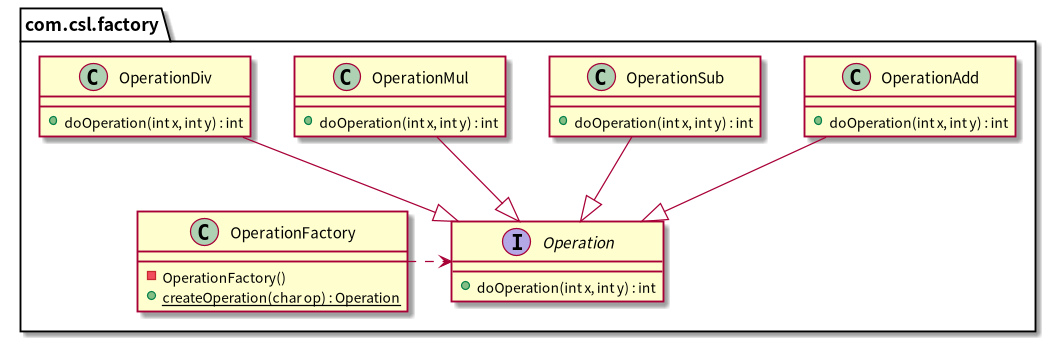
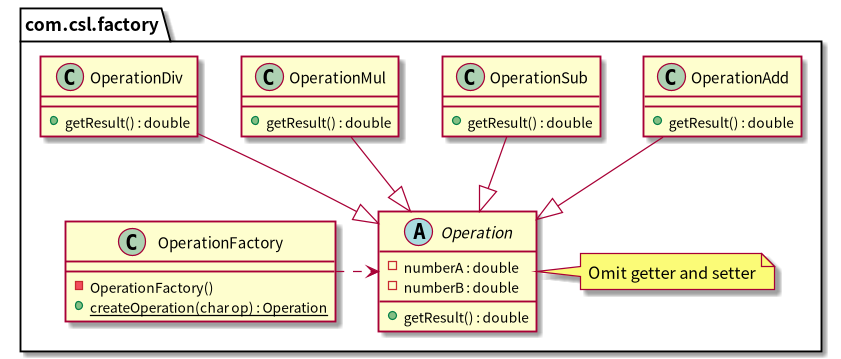
:construction: 修改工厂结构

diff --git a/factory/src/test/java/com/csl/factory/OperationFactoryTest.java b/factory/src/test/java/com/csl/factory/OperationFactoryTest.java
@@ -12,16 +12,16 @@ public class OperationFactoryTest {
 
     @Test
     void testOperationFactory() {
-        var operation = OperationFactory.createOperation('+');
-        assertEquals(3, operation.doOperation(1, 2));
+        testOperation(3, 1, '+', 2);
+        testOperation(2, 5, '-', 3);
+        testOperation(4.5, 3, '*', 1.5);
+        testOperation(2.5, 5, '/', 2);
+    }
 
-        operation = OperationFactory.createOperation('-');
-        assertEquals(3, operation.doOperation(5, 2));
-
-        operation = OperationFactory.createOperation('*');
-        assertEquals(6, operation.doOperation(2, 3));
-
-        operation = OperationFactory.createOperation('/');
-        assertEquals(2, operation.doOperation(5, 2));
+    void testOperation(double expected, double numberA, char op, double numberB) {
+        var operation = OperationFactory.createOperation(op);
+        operation.setNumberA(numberA);
+        operation.setNumberB(numberB);
+        assertEquals(expected, operation.getResult());
     }
 }

diff --git a/strategy/src/test/java/com/csl/strategy/OperationContextTest.java b/strategy/src/test/java/com/csl/strategy/OperationContextTest.java
@@ -17,12 +17,12 @@ public class OperationContextTest {
         assertEquals(3, ctx.executeStrategy(1, 2));
 
         ctx.changeStrategy(OperationFactory.createOperation('-'));
-        assertEquals(1, ctx.executeStrategy(4, 3));
+        assertEquals(2, ctx.executeStrategy(5, 3));
 
         ctx.changeStrategy(OperationFactory.createOperation('*'));
-        assertEquals(6, ctx.executeStrategy(2, 3));
+        assertEquals(4.5, ctx.executeStrategy(3, 1.5));
 
         ctx.changeStrategy(OperationFactory.createOperation('/'));
-        assertEquals(3, ctx.executeStrategy(9, 3));
+        assertEquals(2.5, ctx.executeStrategy(5, 2));
     }
 }

diff --git a/factory/src/main/java/com/csl/factory/Operation.java b/factory/src/main/java/com/csl/factory/Operation.java
@@ -1,17 +1,24 @@
 package com.csl.factory;
 
+import lombok.Getter;
+import lombok.Setter;
+
 /**
  * @author MaoLongLong
  * @date 2021-03-17 14:29:41
  */
-public interface Operation {
+@Getter
+@Setter
+public abstract class Operation {
+
+    private double numberA;
+
+    private double numberB;
 
     /**
-     * 抽象加减乘除运算
+     * 抽象了加减乘除运算
      *
-     * @param x 运算数
-     * @param y 运算数
-     * @return 运算结果
+     * @return 计算结果
      */
-    int doOperation(int x, int y);
+    public abstract double getResult();
 }

diff --git a/strategy/src/main/java/com/csl/strategy/OperationContext.java b/strategy/src/main/java/com/csl/strategy/OperationContext.java
@@ -18,7 +18,9 @@ public class OperationContext {
         this.strategy = strategy;
     }
 
-    public int executeStrategy(int x, int y) {
-        return strategy.doOperation(x, y);
+    public double executeStrategy(double numberA, double numberB) {
+        strategy.setNumberA(numberA);
+        strategy.setNumberB(numberB);
+        return strategy.getResult();
     }
 }

diff --git a/factory/src/main/java/com/csl/factory/OperationAdd.java b/factory/src/main/java/com/csl/factory/OperationAdd.java
@@ -4,10 +4,10 @@ package com.csl.factory;
  * @author MaoLongLong
  * @date 2021-03-17 14:31:59
  */
-public class OperationAdd implements Operation {
+public class OperationAdd extends Operation {
 
     @Override
-    public int doOperation(int x, int y) {
-        return x + y;
+    public double getResult() {
+        return getNumberA() + getNumberB();
     }
 }

diff --git a/factory/src/main/java/com/csl/factory/OperationDiv.java b/factory/src/main/java/com/csl/factory/OperationDiv.java
@@ -4,10 +4,10 @@ package com.csl.factory;
  * @author MaoLongLong
  * @date 2021-03-17 14:31:59
  */
-public class OperationDiv implements Operation {
+public class OperationDiv extends Operation {
 
     @Override
-    public int doOperation(int x, int y) {
-        return x / y;
+    public double getResult() {
+        return getNumberA() / getNumberB();
     }
 }

diff --git a/factory/src/main/java/com/csl/factory/OperationMul.java b/factory/src/main/java/com/csl/factory/OperationMul.java
@@ -4,10 +4,10 @@ package com.csl.factory;
  * @author MaoLongLong
  * @date 2021-03-17 14:31:59
  */
-public class OperationMul implements Operation {
+public class OperationMul extends Operation {
 
     @Override
-    public int doOperation(int x, int y) {
-        return x * y;
+    public double getResult() {
+        return getNumberA() * getNumberB();
     }
 }

diff --git a/factory/src/main/java/com/csl/factory/OperationSub.java b/factory/src/main/java/com/csl/factory/OperationSub.java
@@ -4,10 +4,10 @@ package com.csl.factory;
  * @author MaoLongLong
  * @date 2021-03-17 14:31:59
  */
-public class OperationSub implements Operation {
+public class OperationSub extends Operation {
 
     @Override
-    public int doOperation(int x, int y) {
-        return x - y;
+    public double getResult() {
+        return getNumberA() - getNumberB();
     }
 }

diff --git a/factory/README.md b/factory/README.md
@@ -1,0 +1,1 @@
+# 简单工厂模式

diff --git a/strategy/README.md b/strategy/README.md
@@ -1,0 +1,1 @@
+# 策略模式
